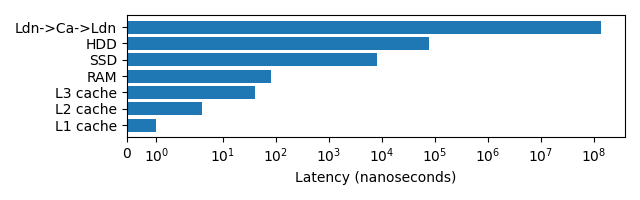
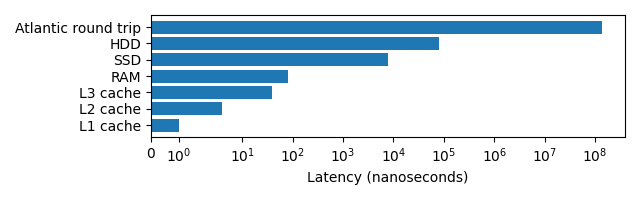
Improved wording and typographic corrections throughout.

diff --git a/episodes/fig/latency.py b/episodes/fig/latency.py
@@ -6,7 +6,7 @@ Using data from
 https://www.intel.com/content/www/us/en/developer/articles/technical/memory-performance-in-a-nutshell.html
 """
 import matplotlib.pyplot as plt
-label = ["L1 cache", "L2 cache", "L3 cache", "RAM", "SSD", "HDD", "Ldn->Ca->Ldn"]
+label = ["L1 cache", "L2 cache", "L3 cache", "RAM", "SSD", "HDD", "Atlantic round trip"]
 latency_ns = [1, 4, 40, 80, 8000, 80000, 140000000]
 
 plt.figure().set_figheight(2)

diff --git a/episodes/optimisation-data-structures-algorithms.md b/episodes/optimisation-data-structures-algorithms.md
@@ -7,8 +7,7 @@ exercises: 0
 :::::::::::::::::::::::::::::::::::::: questions
 
 - What's the most efficient way to construct a list?
-- When should Tuples be used?
-- When should generator functions be used?
+- When should tuples be used?
 - When are sets appropriate?
 - What is the best way to search a list?
 
@@ -16,9 +15,8 @@ exercises: 0
 
 ::::::::::::::::::::::::::::::::::::: objectives
 
-- Able to summarise how Lists and Tuples work behind the scenes.
+- Able to summarise how lists and tuples work behind the scenes.
 - Able to identify appropriate use-cases for tuples.
-- Able to use generator functions in appropriate situations.
 - Able to utilise dictionaries and sets effectively
 - Able to use `bisect_left()` to perform a binary search of a list or array
 
@@ -52,13 +50,13 @@ Lists are a fundamental data structure within Python.
 
 It is implemented as a form of dynamic array found within many programming languages by different names (C++: `std::vector`, Java: `ArrayList`, R: `vector`, Julia: `Vector`).
 
-They allows direct and sequential element access, with the convenience to append items.
+They allow direct and sequential element access, with the convenience to append items.
 
 This is achieved by internally storing items in a static array.
-This array however can be longer than the `List`, so the current length of the list is stored alongside the array.
-When an item is appended, the `List` checks whether it has enough spare space to add the item to the end.
-If it doesn't, it will reallocate a larger array, copy across the elements, and deallocate the old array.
-Before copying the item to the end and incrementing the counter which tracks the list's length.
+This array however can be longer than the list, so the current length of the list is stored alongside the array.
+When an item is appended, the list checks whether it has enough spare space to add the item to the end.
+If it doesn't, it will re-allocate a larger array, copy across the elements, and deallocate the old array.
+The item to be appended is then copied to the end and the counter which tracks the list's length is increemnted.
 
 The amount the internal array grows by is dependent on the particular list implementation's growth factor.
 CPython for example uses [`newsize + (newsize >> 3) + 6`](https://github.com/python/cpython/blob/a571a2fd3fdaeafdfd71f3d80ed5a3b22b63d0f7/Objects/listobject.c#L74), which works out to an over allocation of roughly ~12.5%.
@@ -114,7 +112,7 @@ Results will vary between Python versions, hardware and list lengths. But in thi
 
 ## Tuples
 
-In contrast, Python's Tuples are immutable static arrays (similar to strings), their elements cannot be modified and they cannot be resized.
+In contrast, Python's tuples are immutable static arrays (similar to strings), their elements cannot be modified and they cannot be resized.
 
 Their potential use-cases are greatly reduced due to these two limitations, they are only suitable for groups of immutable properties.
 
@@ -189,7 +187,7 @@ class MyKey:
 dict = {}
 dict[MyKey("one", 2, 3.0)] = 12
 ```
-The only limitation is that two objects where two objects are equal they must have the same hash, hence all member variables which contribute to `__eq__()` should also contribute to `__hash__()` and vice versa (it's fine to have irrelevant or redundant internal members contribute to neither).
+The only limitation is that where two objects are equal they must have the same hash, hence all member variables which contribute to `__eq__()` should also contribute to `__hash__()` and vice versa (it's fine to have irrelevant or redundant internal members contribute to neither).
 
 ## Sets
 
@@ -199,7 +197,7 @@ Sets are used for eliminating duplicates and checking for membership, and will n
 
 ::::::::::::::::::::::::::::::::::::: challenge
 
-## Unique Collection
+## Exercise: Unique Collection
 
 There are four implementations in the below example code, each builds a collection of unique elements from 25,000 where 50% can be expected to be duplicates.
 
@@ -351,7 +349,7 @@ These results are subject to change based on the number of items and the proport
 ::::::::::::::::::::::::::::::::::::: keypoints
 
 - List comprehension should be preferred when constructing lists.
-- Where appropriate, Tuples and Generator functions should be preferred over Python lists.
+- Where appropriate, tuples should be preferred over Python lists.
 - Dictionaries and sets are appropriate for storing a collection of unique data with no intrinsic order for random access.
 - When used appropriately, dictionaries and sets are significantly faster than lists.
 - If searching a list or array is required, it should be sorted and searched using `bisect_left()` (binary search).

diff --git a/episodes/optimisation-introduction.md b/episodes/optimisation-introduction.md
@@ -25,7 +25,7 @@ Now that you're able to find the most expensive components of your code with pro
 In order to optimise code for performance, it is necessary to have an understanding of what a computer is doing to execute it.
 
 <!-- Goal is to give you a high level understanding of how your code executes. You don't need to be an expert, even a vague general understanding will leave you in a stronger position. -->
-Even a high-level understanding of a typical computer architecture; the most common data-structures and algorithms; and how Python executes your code, enable the identification of suboptimal approaches. If you have learned to write code informally out of necessity, to get something to work, it's not uncommon to have collected some bad habits along the way.
+Even a high-level understanding of how you code executes, such as how Python and the most common data-structures and algorithms are implemented, can help you to identify suboptimal approaches when programming. If you have learned to write code informally out of necessity, to get something to work, it's not uncommon to have collected some bad habits along the way.
 
 <!-- This is largely high-level/abstract knowledge applicable to the vast majority of programming languages, applies even more strongly if using compiled Python features like numba -->
 The remaining content is often abstract knowledge, that is transferable to the vast majority of programming languages. This is because the hardware architecture, data-structures and algorithms used are common to many languages and they hold some of the greatest influence over performance bottlenecks.
@@ -124,6 +124,7 @@ You may already have a different testing workflow in-place for validating the co
 
 <!-- todo callout FAIR: testing course (when it's ready) -->
 
+<!--
 ## Coming Up
 
 In the remainder of this course we will cover:
@@ -143,6 +144,7 @@ In the remainder of this course we will cover:
    - How variables are accessed & the performance implications
    - Latency in perspective
    - Memory allocation isn't free
+-->
 
 ::::::::::::::::::::::::::::::::::::: keypoints
 

diff --git a/episodes/profiling-functions.md b/episodes/profiling-functions.md
@@ -105,7 +105,7 @@ You may see stack traces like this when an unhandled exception is thrown by your
 It can be called directly within your Python code as an imported package, however it's easier to use it's script interface:
 
 ```sh
-python -m cProfile -o <output file> <script name/arguments>
+python -m cProfile -o <output file> <script name> <arguments>
 ```
 
 For example if you normally run your program as:
@@ -357,7 +357,7 @@ The value of `cities` should be a positive integer, this algorithm has poor scal
 
 The hotspot only becomes visible when an argument of `5` or greater is passed.
 
-Here it `distance()` (from `travellingsales.py:11`) becomes the largest box (similarly it's parent in the call-stack `total_distance()`) showing that it scales poorly with the number of cities. With 5 cities, `distance()` has a cumulative time of `~35%` the runtime, this increases to `~60%` with 9 cities.
+You should see that `distance()` (from `travellingsales.py:11`) becomes the largest box (similarly it's parent in the call-stack `total_distance()`) showing that it scales poorly with the number of cities. With 5 cities, `distance()` has a cumulative time of `~35%` the runtime, this increases to `~60%` with 9 cities.
 
 Other boxes within the diagram correspond to the initialisation of imports, or initialisation of cities. These have constant or linear scaling, so their cost barely increases with the number of cities.
 
@@ -415,7 +415,7 @@ Maybe we could investigate this further with line profiling!
 
 ::::::::::::::::::::::::::::::::::::: keypoints
 
-- A python program can be function level profiled with `cProfile` via `python -m cProfile -o <output file> <script name/arguments>`.
+- A python program can be function level profiled with `cProfile` via `python -m cProfile -o <output file> <script name> <arguments>`.
 - The output file from `cProfile` can be visualised with `snakeviz` via `python -m snakeviz <output file>`.
 - Function level profiling output displays the nested call hierarchy, listing both the cumulative and total minus sub functions time.
 

diff --git a/episodes/optimisation-use-latest.md b/episodes/optimisation-use-latest.md
@@ -27,7 +27,7 @@ It's important to use the latest Python wherever feasible. In addition to new fe
 
 > [Python 3.11](https://docs.python.org/3/whatsnew/3.11.html) is between 10-60% faster than Python 3.10. On average, we measured a 1.25x speedup on the standard benchmark suite.
 
-Future proposals, such changes to the [JIT](https://tonybaloney.github.io/posts/python-gets-a-jit.html) and [GIL](https://peps.python.org/pep-0703/) will provide further improvements to performance.
+Future proposals, such as changes to the [JIT](https://tonybaloney.github.io/posts/python-gets-a-jit.html) and [GIL](https://peps.python.org/pep-0703/) will provide further improvements to performance.
 
 Similarly, major packages with a performance focus such as NumPy and Pandas, should be kept up to date for the same reasons.
 

diff --git a/episodes/profiling-lines.md b/episodes/profiling-lines.md
@@ -467,7 +467,7 @@ Remembering that this method is executed once per each of the 5000 `Grass` agent
 ::::::::::::::::::::::::::::::::::::: keypoints
 
 - Specific methods can be line-level profiled if decorated with `@profile` that is imported from `line_profiler`.
-- `kernprof` executes `line_profiler` via `python -m kernprof -lvr <script name/arguments>`.
+- `kernprof` executes `line_profiler` via `python -m kernprof -lvr <script name> <arguments>`.
 - Code in global scope must wrapped in a method if it is to be profiled with `line_profiler`.
 - The output from `line_profiler` lists the absolute and relative time spent per line for each targeted function.
 

diff --git a/episodes/profiling-conclusion.md b/episodes/profiling-conclusion.md
@@ -43,13 +43,13 @@ What to Profile:
 
 How to function-level profile:
 
-- Execute `cProfile` via `python -m cProfile -o <output file> <script name/arguments>`
+- Execute `cProfile` via `python -m cProfile -o <output file> <script name> <arguments>`
 - Execute `snakeviz` via `python -m snakeviz <output file>`
 
 How to line-level profile:
 
 - Import `profile` from `line_profiling`
 - Decorate targeted methods with `@profile`
-- Execute `line_profiler` via `python -m kernprof -lvr <script name/arguments>`
+- Execute `line_profiler` via `python -m kernprof -lvr <script name> <arguments>`
 
 ::::::::::::::::::::::::::::::::::::::::::::::::
